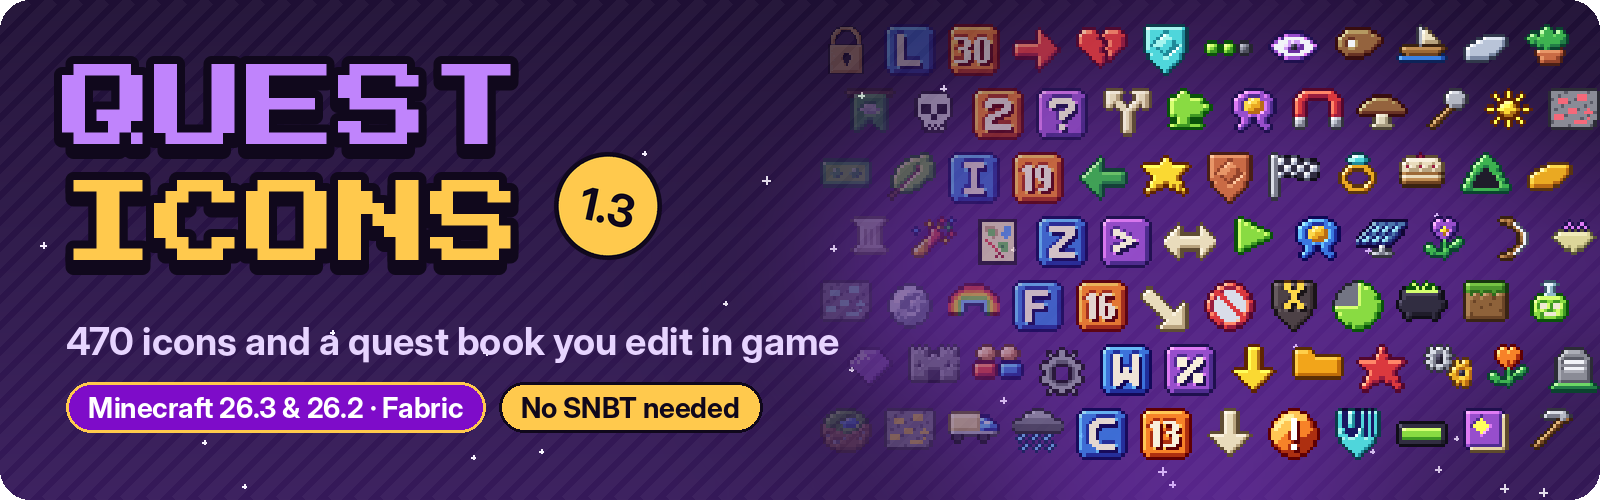
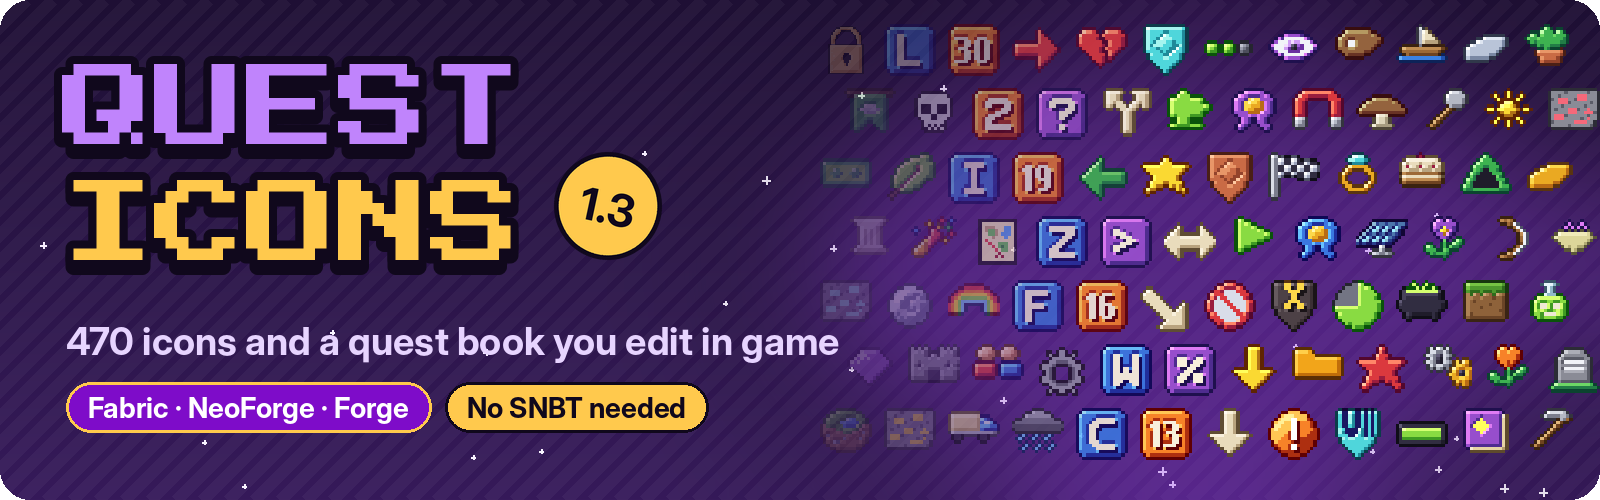
CurseForge page: every version and loader of 1.3.0 (Fabric 26.3 to 1.20.1, NeoForge 1.21.1, Forge 1.20.1)
Claude-Session: https://claude.ai/code/session_01Fk46dch3whoyNRMPgRGf6J

Changed region(s): [[0.0625, 0.75, 0.5, 0.87]]

diff --git a/docs/curseforge/description.html b/docs/curseforge/description.html
@@ -2,11 +2,12 @@
      Paste it into the description editor's HTML view. The images load from this public repo (branch 26.3);
      docs/curseforge/make_images_v2.py and make_images_v3.py (the *_v3 images of 1.2) and make_images_v4.py (the *_v4 images of 1.3) build them. -->
 <p style="text-align:center"><img src="https://raw.githubusercontent.com/Kasax007/Kasax_Quests_Items_Mod-1.19.2/26.3/docs/curseforge/img/header_v4.png" alt="Quest Icons 1.3 - 470 icons and a quest book you edit in game"></p>
-<h3 style="text-align:center"><strong>Made with love, sweat and tears<br>Fabric only</strong></h3>
+<h3 style="text-align:center"><strong>Made with love, sweat and tears<br>Fabric, NeoForge and Forge</strong></h3>
 <p style="text-align:center"><a href="https://bisecthosting.com/kasax007" rel="nofollow"><img src="https://i.imgur.com/fRoy5Eh.png" alt="BisectHosting: use code KASAX007 for 25% off"></a></p>
 <p>&nbsp;</p>
 
 <h3 style="text-align:center"><strong>Icons for your quest book, your rewards or anything you wish for.<br>And a complete quest book in the style of FTB Quests: chapters, quest maps, tasks, rewards, loot crates, teams and an in-game editor.<br>New in 1.3: 470 icons (letters, numbers, symbols, tiers and every chapter theme), 56 quest-map pictures and an in-game editor with forms and pickers, so nobody has to write SNBT. On Minecraft 26.3 and 26.2.</strong></h3>
+<p style="text-align:center"><strong>For Minecraft 26.3, 26.2, 26.1.2, 1.21.11, 1.21.1 and 1.20.1 with Fabric, for 1.21.1 with NeoForge and for 1.20.1 with Forge.</strong> Same features and quest files on every version.</p>
 <p>&nbsp;</p>
 
 <p style="text-align:center"><img src="https://raw.githubusercontent.com/Kasax007/Kasax_Quests_Items_Mod-1.19.2/26.3/docs/curseforge/img/glance_v4.png" alt="Quest Icons at a glance: 470 icons, 56 map pictures, 11 task types, 8 reward types, 10 quest shapes, 4 loot crates, and what is new in 1.3"></p>
@@ -73,7 +74,10 @@
 <div class="spoiler">
 <p><strong>Requirements</strong></p>
 <ul>
-<li>Minecraft 26.3 with Fabric Loader 0.19.5 or newer, or Minecraft 26.2 with Fabric Loader 0.18.4 or newer. Fabric API. On a server, install it on the server and on every client.</li>
+<li>Fabric: Minecraft 26.3 (Fabric Loader 0.19.5 or newer), 26.2 or 26.1.2 (0.18.4 or newer), 1.21.11 (0.17 or newer), 1.21.1 (0.16 or newer) or 1.20.1 (0.15 or newer), each with Fabric API.</li>
+<li>NeoForge: Minecraft 1.21.1 with NeoForge 21.1 or newer. Forge: Minecraft 1.20.1 with Forge 47.1 or newer. No other mod needed; JEI and other recipe viewers list all icons (search <strong>@questsicons</strong>). On Forge 1.20.1, JEI must also be on the server.</li>
+<li>On a server, install it on the server and on every client.</li>
+<li>On 1.20.1, items in quest files use the 1.20.1 NBT. Importing an FTB Quests book of 1.21 or 26.1 there leaves out item data that 1.20.1 cannot read; the report lists it.</li>
 </ul>
 <p><strong>Commands</strong></p>
 <ul>

diff --git a/docs/curseforge/make_images_v4.py b/docs/curseforge/make_images_v4.py
@@ -79,7 +79,7 @@ def header(name='header_v4.png', size=(1600, 500)):
     d = ImageDraw.Draw(im)
     d.text((66, 318), '%d icons and a quest book you edit in game' % len(ids), font=small(38), fill=AVAILABLE)
     x = 66
-    for tag in ('Minecraft 26.3 & 26.2 · Fabric', 'No SNBT needed'):
+    for tag in ('Fabric · NeoForge · Forge', 'No SNBT needed'):
         f = small(28)
         pw = d.textlength(tag, font=f) + 44
         new = tag.startswith('No')
